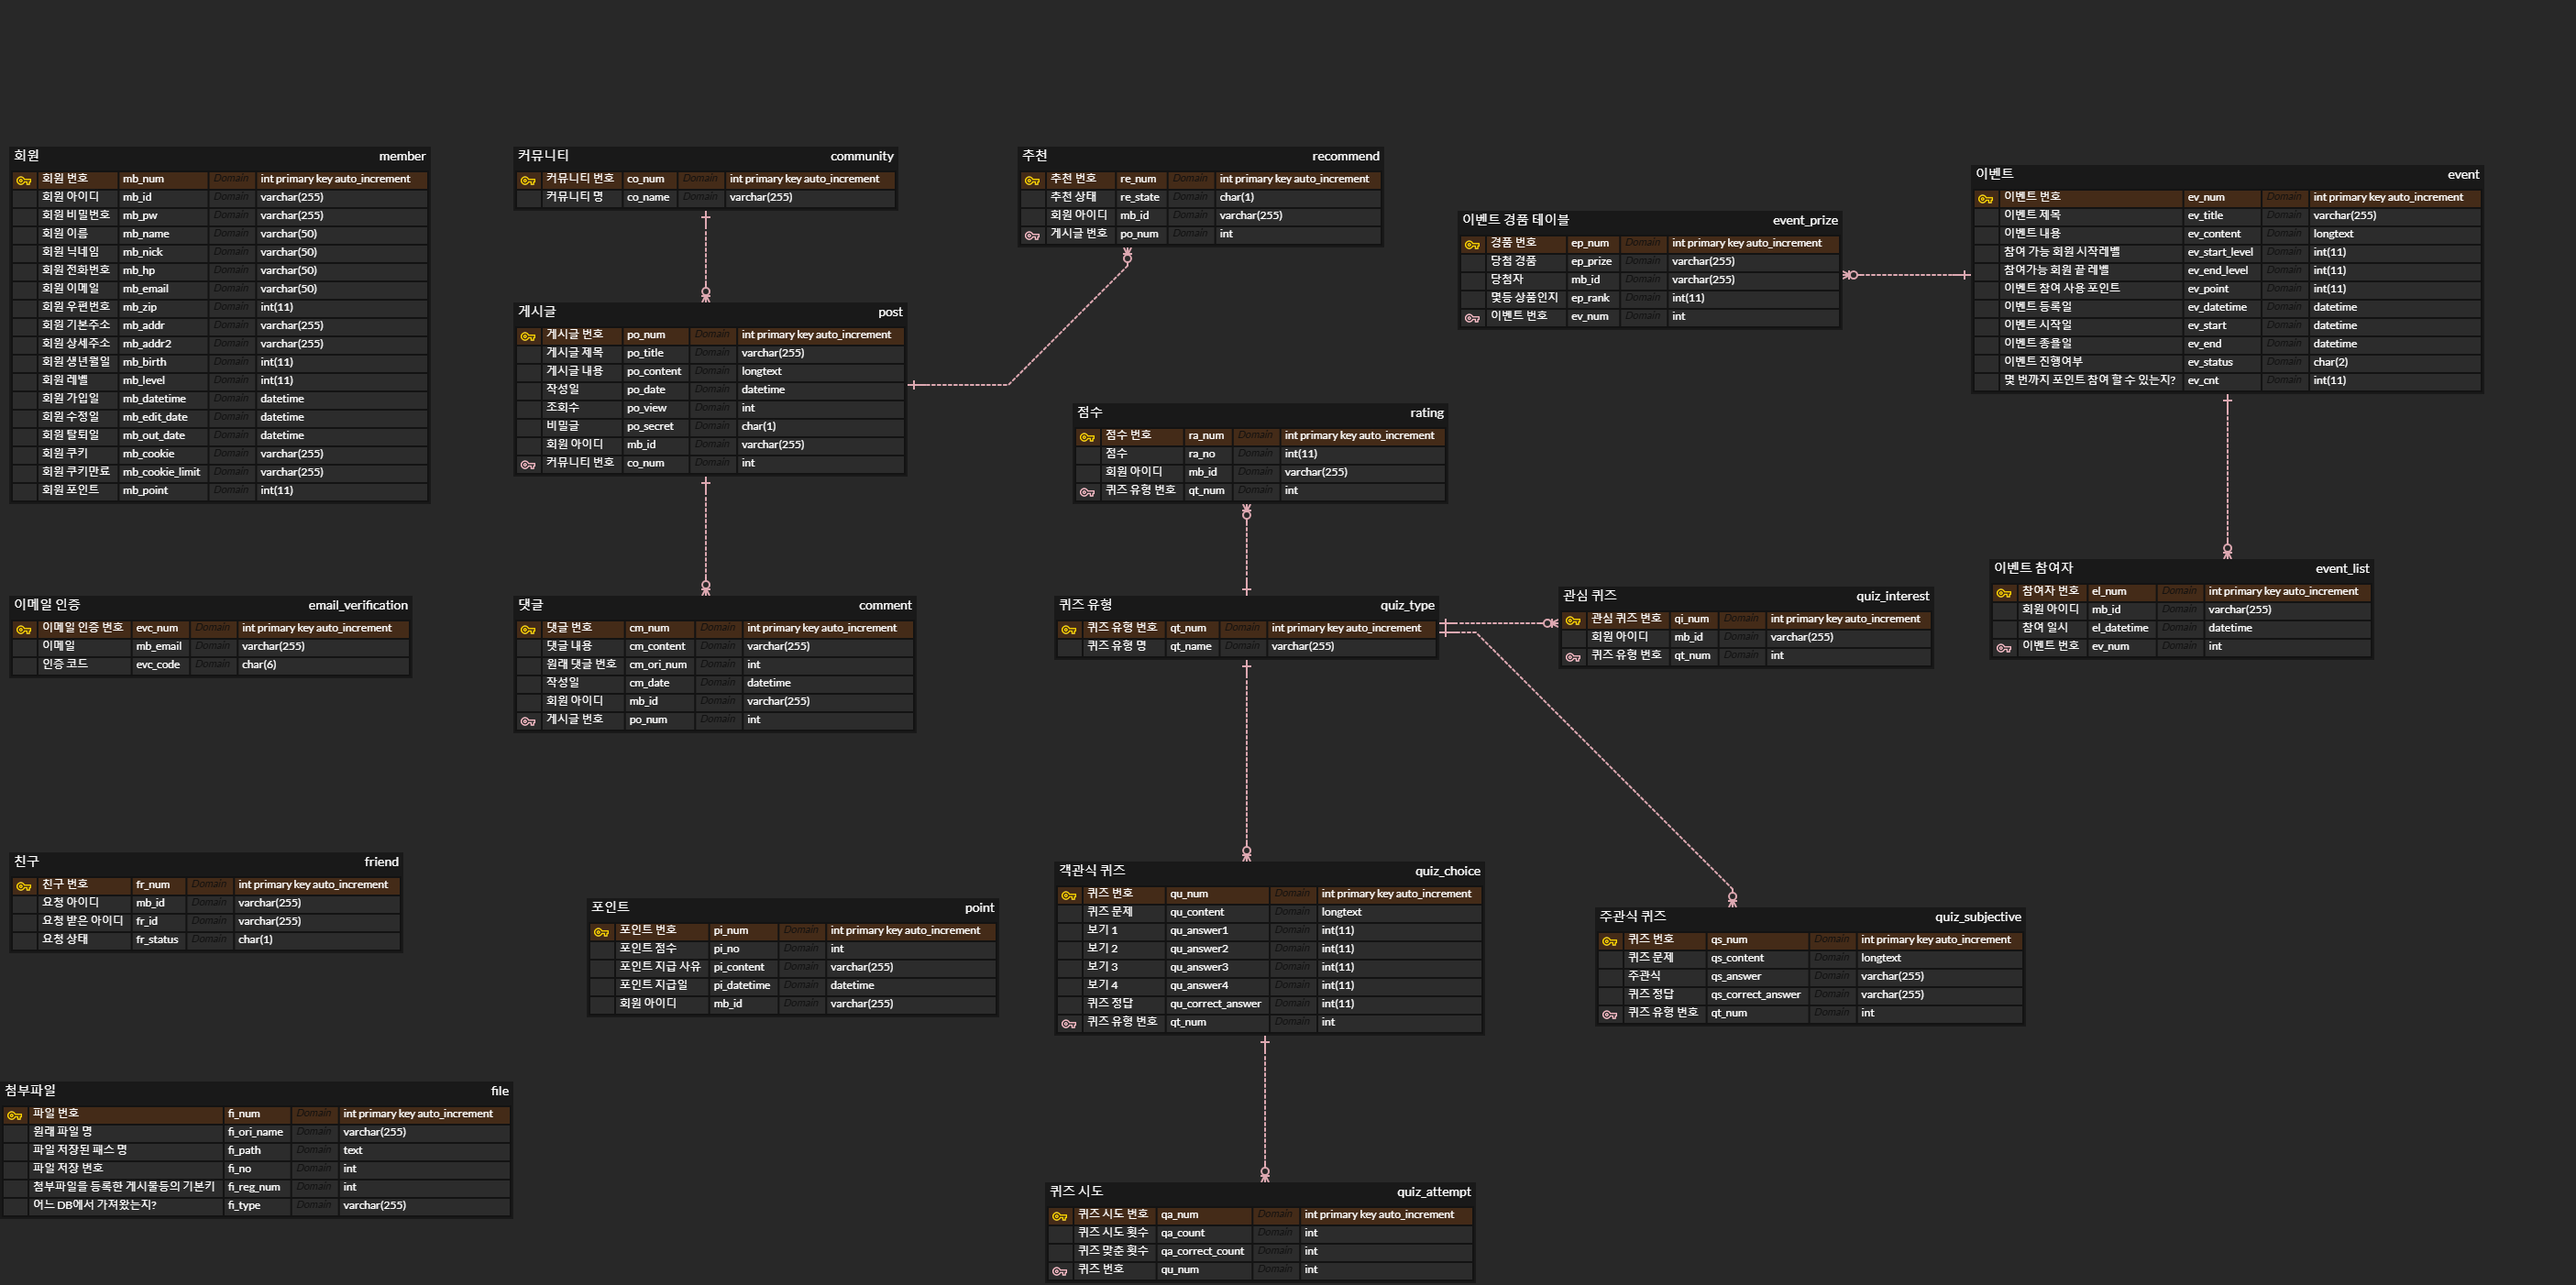
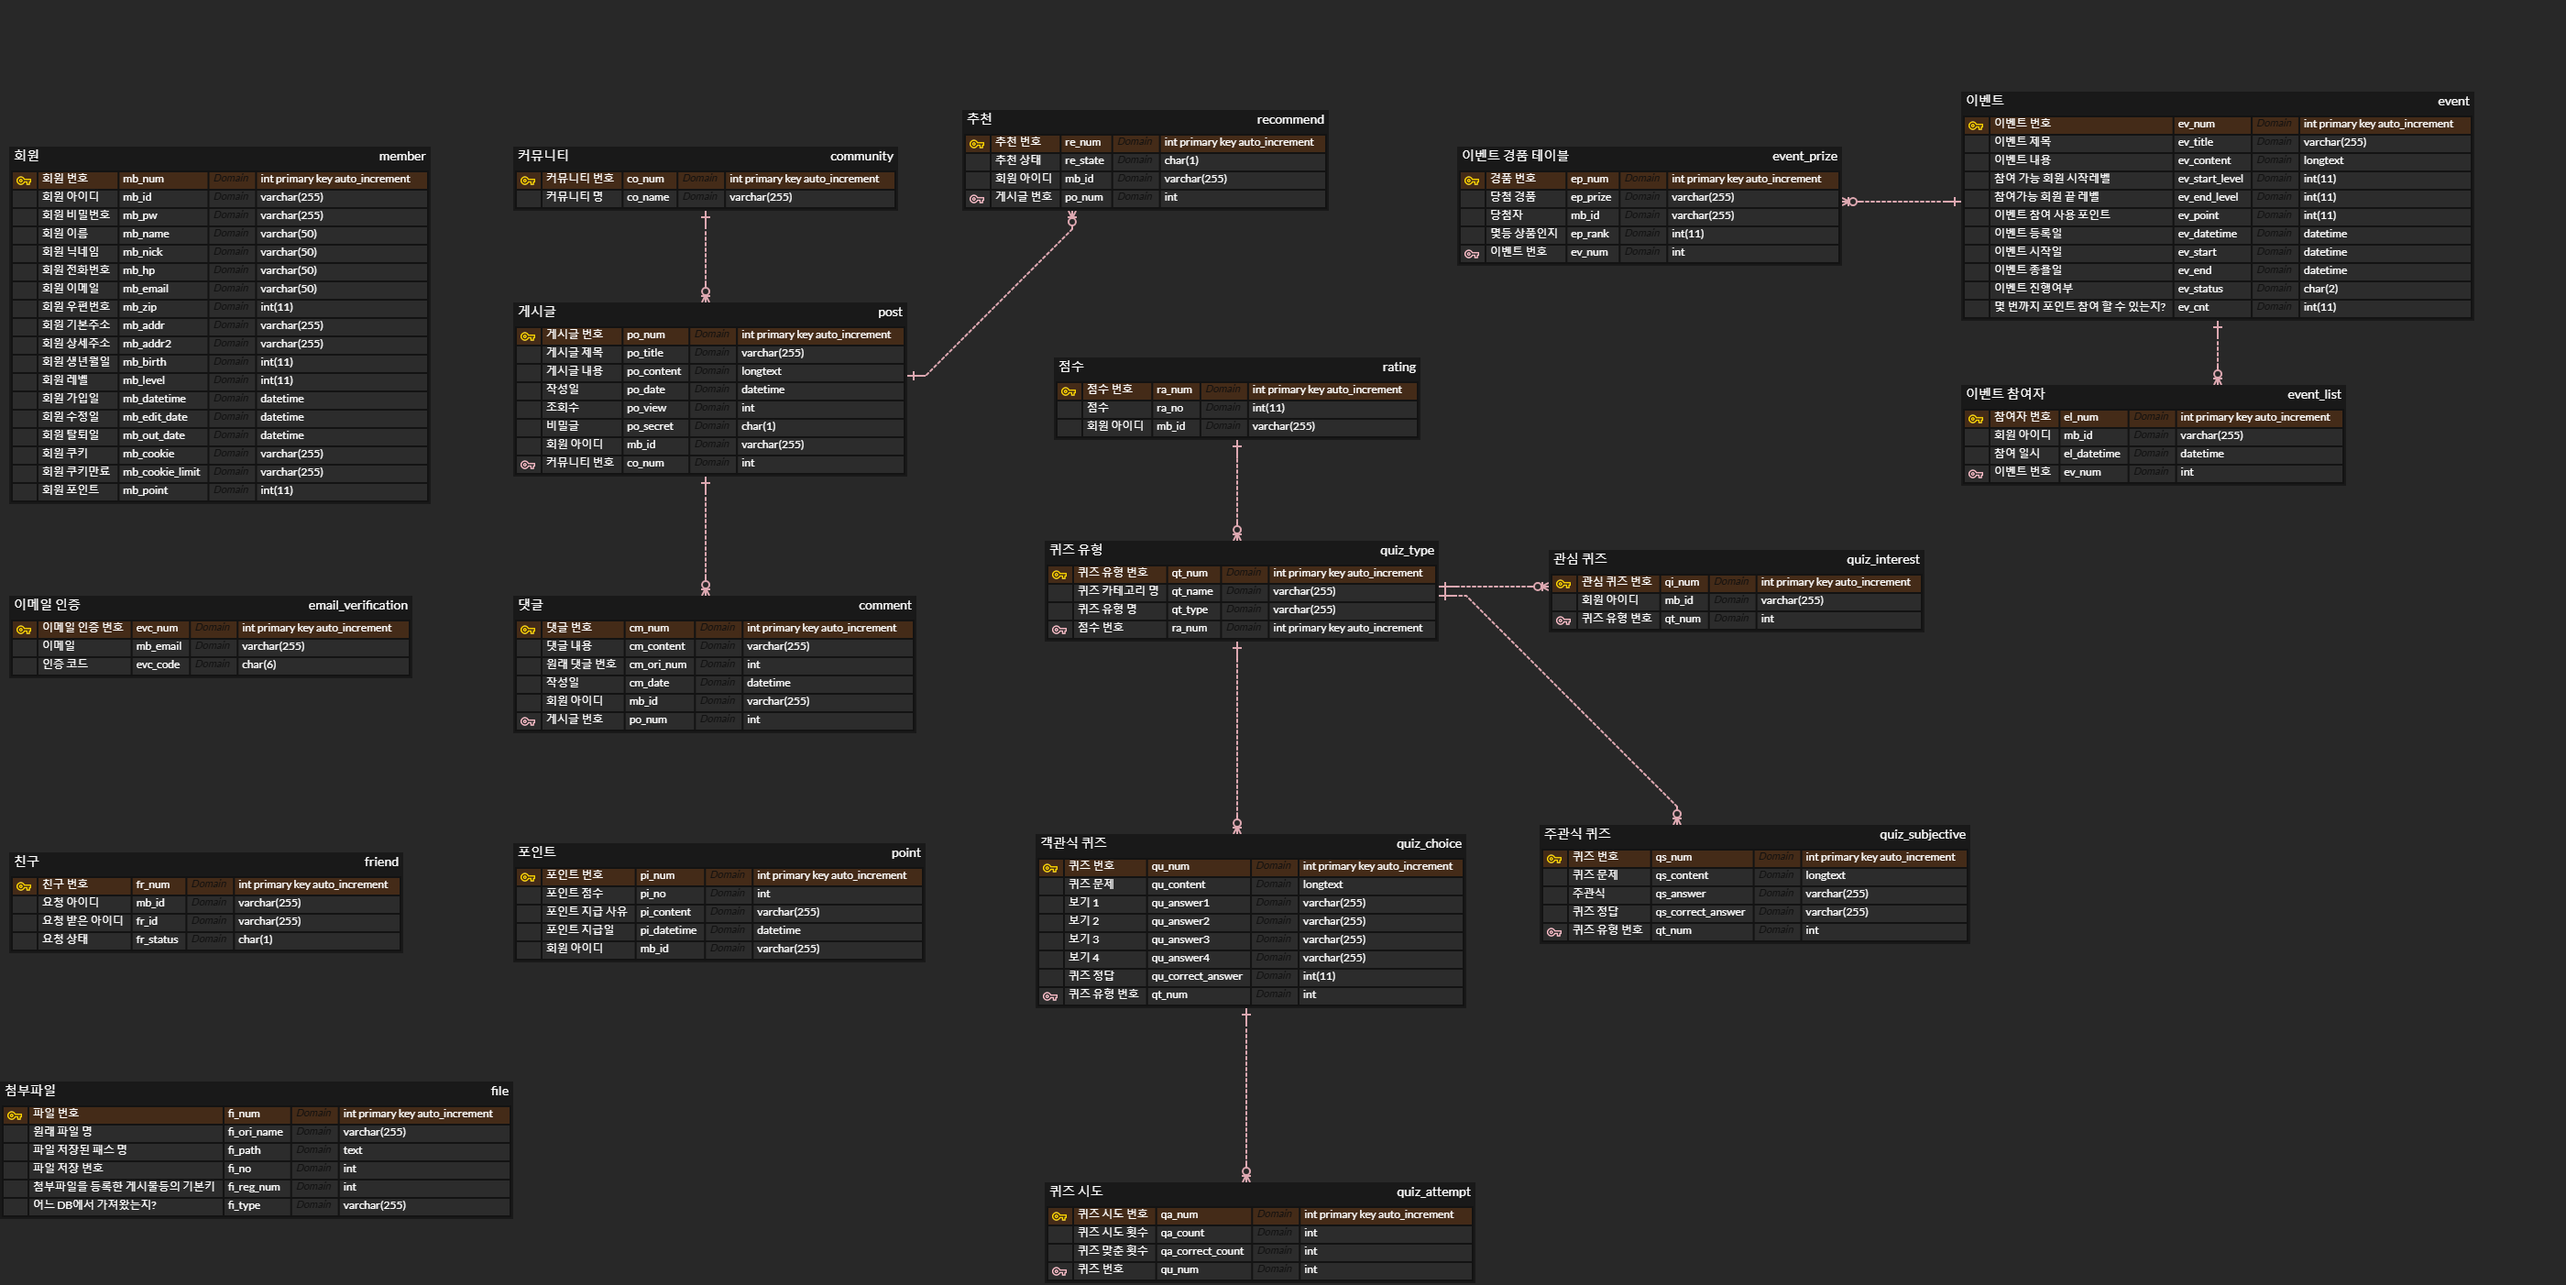
[hyun] 데이터 베이스 수정 및 vo 클래스 수정

diff --git a/sub-quiz-project/src/main/java/kr/spring/boot/model/vo/QuizChoiceVO.java b/sub-quiz-project/src/main/java/kr/spring/boot/model/vo/QuizChoiceVO.java
@@ -9,10 +9,10 @@ public class QuizChoiceVO {
 	
 	private int qu_num;				// 객관식 퀴즈 기본키
 	private String qu_content;		// 객관식 퀴즈 문제
-	private int qu_answer1;			// 보기1
-	private int qu_answer2;			// 보기2
-	private int qu_answer3;			// 보기3
-	private int qu_answer4;			// 보기4
+	private String qu_answer1;			// 보기1
+	private String qu_answer2;			// 보기2
+	private String qu_answer3;			// 보기3
+	private String qu_answer4;			// 보기4
 	private int qu_correct_answer;	// 객관식 퀴즈 정답
 	private int qt_num;				// 퀴즈 유형 기본키
 }

diff --git a/sub-quiz-project/src/main/java/kr/spring/boot/model/vo/QuizTypeVO.java b/sub-quiz-project/src/main/java/kr/spring/boot/model/vo/QuizTypeVO.java
@@ -8,6 +8,8 @@ import lombok.NoArgsConstructor;
 public class QuizTypeVO {
 	
 	private int qt_num;			// 퀴즈 유형 기본키
-	private String qt_name;		// 퀴즈 유형 명
+	private String qt_name;		// 퀴즈 카테고리 명
+	private String qt_type;		// 퀴즈 유형 명
+	private int ra_num;			// 점수 번호
 	
 }
